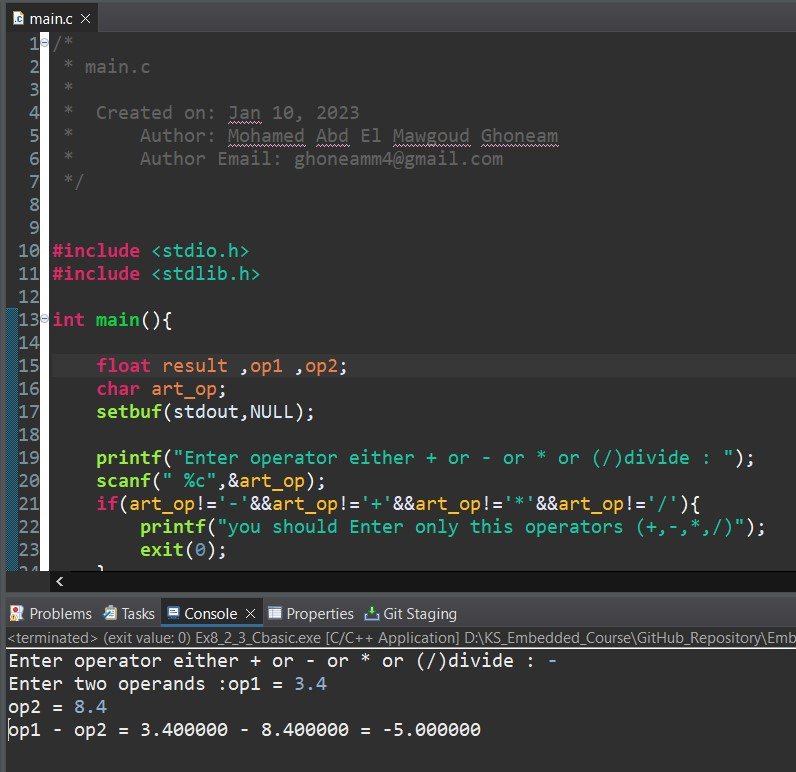
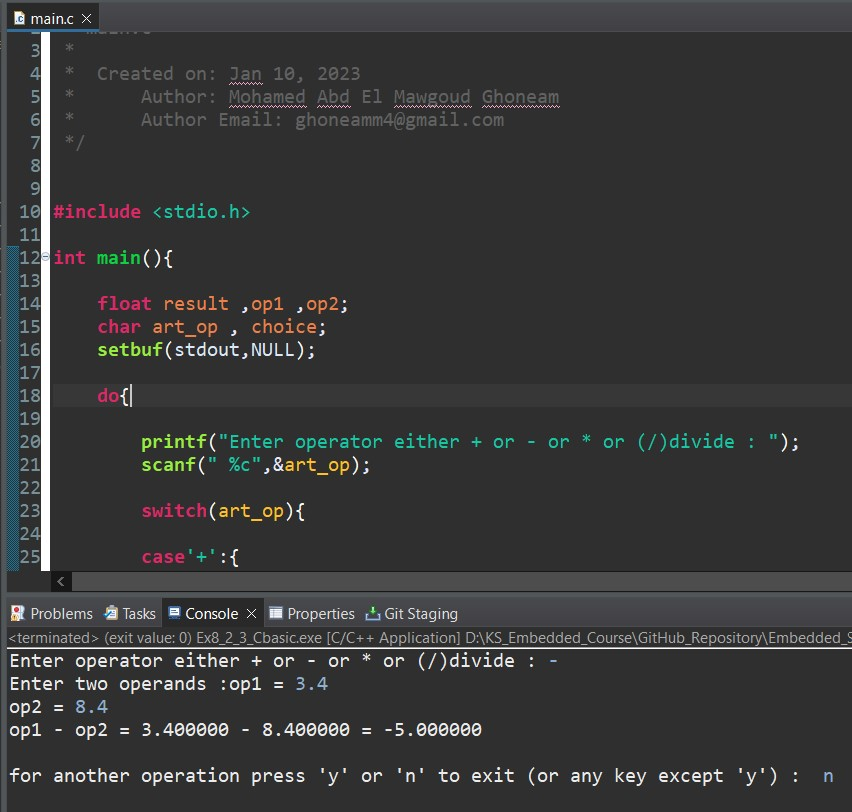
I add some modifications and fix small mistake because I use (if) instead of (switch case)(question need this)

diff --git a/Unit_2_C_Programming/Lecture_3_C_Basic/C_Basic_Assignment/Assignment_2/Ex8_2_3_Cbasic/main.c b/Unit_2_C_Programming/Lecture_3_C_Basic/C_Basic_Assignment/Assignment_2/Ex8_2_3_Cbasic/main.c
@@ -8,41 +8,71 @@
 
 
 #include <stdio.h>
-#include <stdlib.h>
 
 int main(){
 
 	float result ,op1 ,op2;
-	char art_op;
+	char art_op , choice;
 	setbuf(stdout,NULL);
 
-	printf("Enter operator either + or - or * or (/)divide : ");
-	scanf(" %c",&art_op);
-	if(art_op!='-'&&art_op!='+'&&art_op!='*'&&art_op!='/'){
-		printf("you should Enter only this operators (+,-,*,/)");
-		exit(0);
-	}
-	printf("Enter two operands :op1 = ");
-	scanf("%f",&op1);
-	printf("op2 = ");
-	scanf("%f",&op2);
+	do{
 
-	if(art_op=='+'){
-		result=op1+op2;
-		printf("op1 + op2 = %f + %f = %f",op1,op2,result);
-	}
-	else if(art_op=='-'){
-		result=op1-op2;
-		printf("op1 - op2 = %f - %f = %f",op1,op2,result);
-	}
-	else if(art_op=='*'){
-		result=op1*op2;
-		printf("op1 * op2 = %f * %f = %f",op1,op2,result);
-	}
-	else if(art_op=='/'){
-		result=op1/op2;
-		printf("op1 / op2 = %f / %f = %f",op1,op2,result);
-	}
+		printf("Enter operator either + or - or * or (/)divide : ");
+		scanf(" %c",&art_op);
 
+		switch(art_op){
+
+		case'+':{
+			printf("Enter two operands :op1 = ");
+			scanf("%f",&op1);
+			printf("op2 = ");
+			scanf("%f",&op2);
+
+			result=op1+op2;
+			printf("op1 + op2 = %f + %f = %f",op1,op2,result);
+		}
+		break;
+		case'-':{
+			printf("Enter two operands :op1 = ");
+			scanf("%f",&op1);
+			printf("op2 = ");
+			scanf("%f",&op2);
+
+			result=op1-op2;
+			printf("op1 - op2 = %f - %f = %f",op1,op2,result);
+		}
+		break;
+		case'*':{
+			printf("Enter two operands :op1 = ");
+			scanf("%f",&op1);
+			printf("op2 = ");
+			scanf("%f",&op2);
+
+			result=op1*op2;
+			printf("op1 * op2 = %f * %f = %f",op1,op2,result);
+		}
+		break;
+		case'/':{
+			printf("Enter two operands :op1 = ");
+			scanf("%f",&op1);
+			printf("op2 = ");
+			scanf("%f",&op2);
+
+			result=op1/op2;
+			printf("op1 / op2 = %f / %f = %f",op1,op2,result);
+		}
+		break;
+		default:{
+			printf("you should Enter only this operators (+,-,*,/)");
+		}
+		break;
+		}
+
+		printf("\n\rfor another operation press 'y' or 'n' to exit (or any key except 'y') :  ");
+		scanf(" %c",&choice);
+
+
+	}
+	while(choice=='y');
 	return 0;
 }
